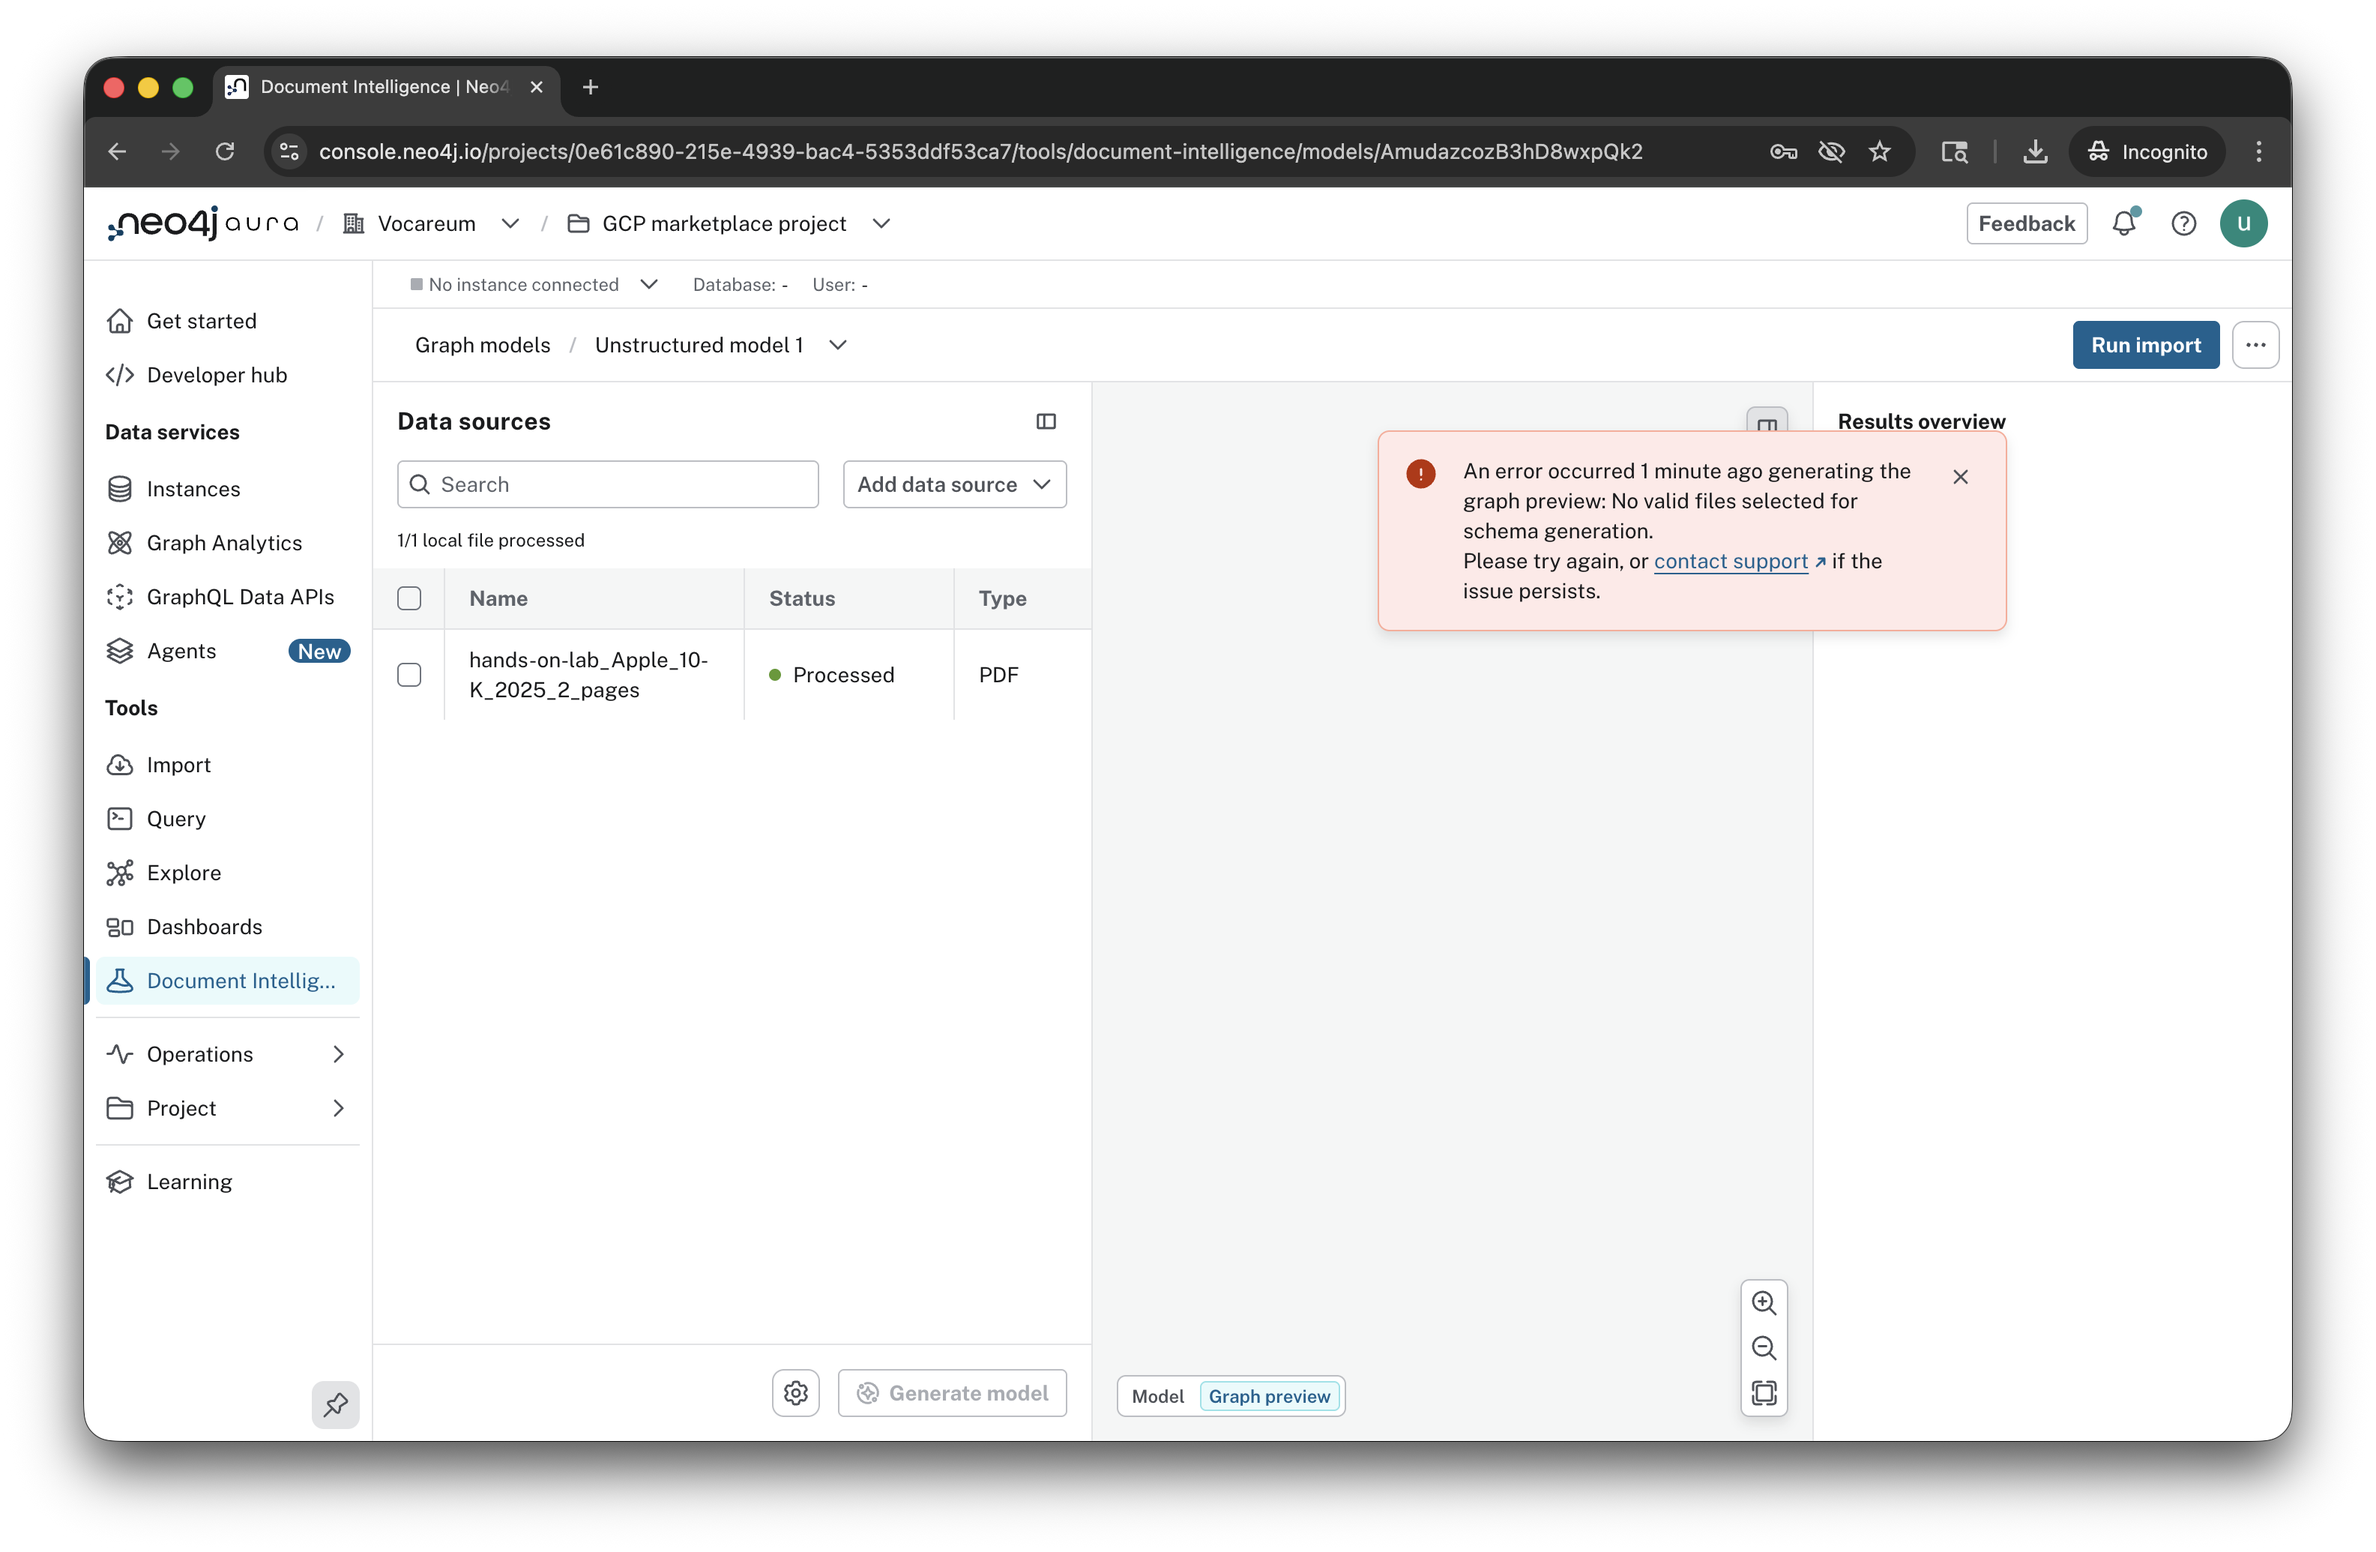
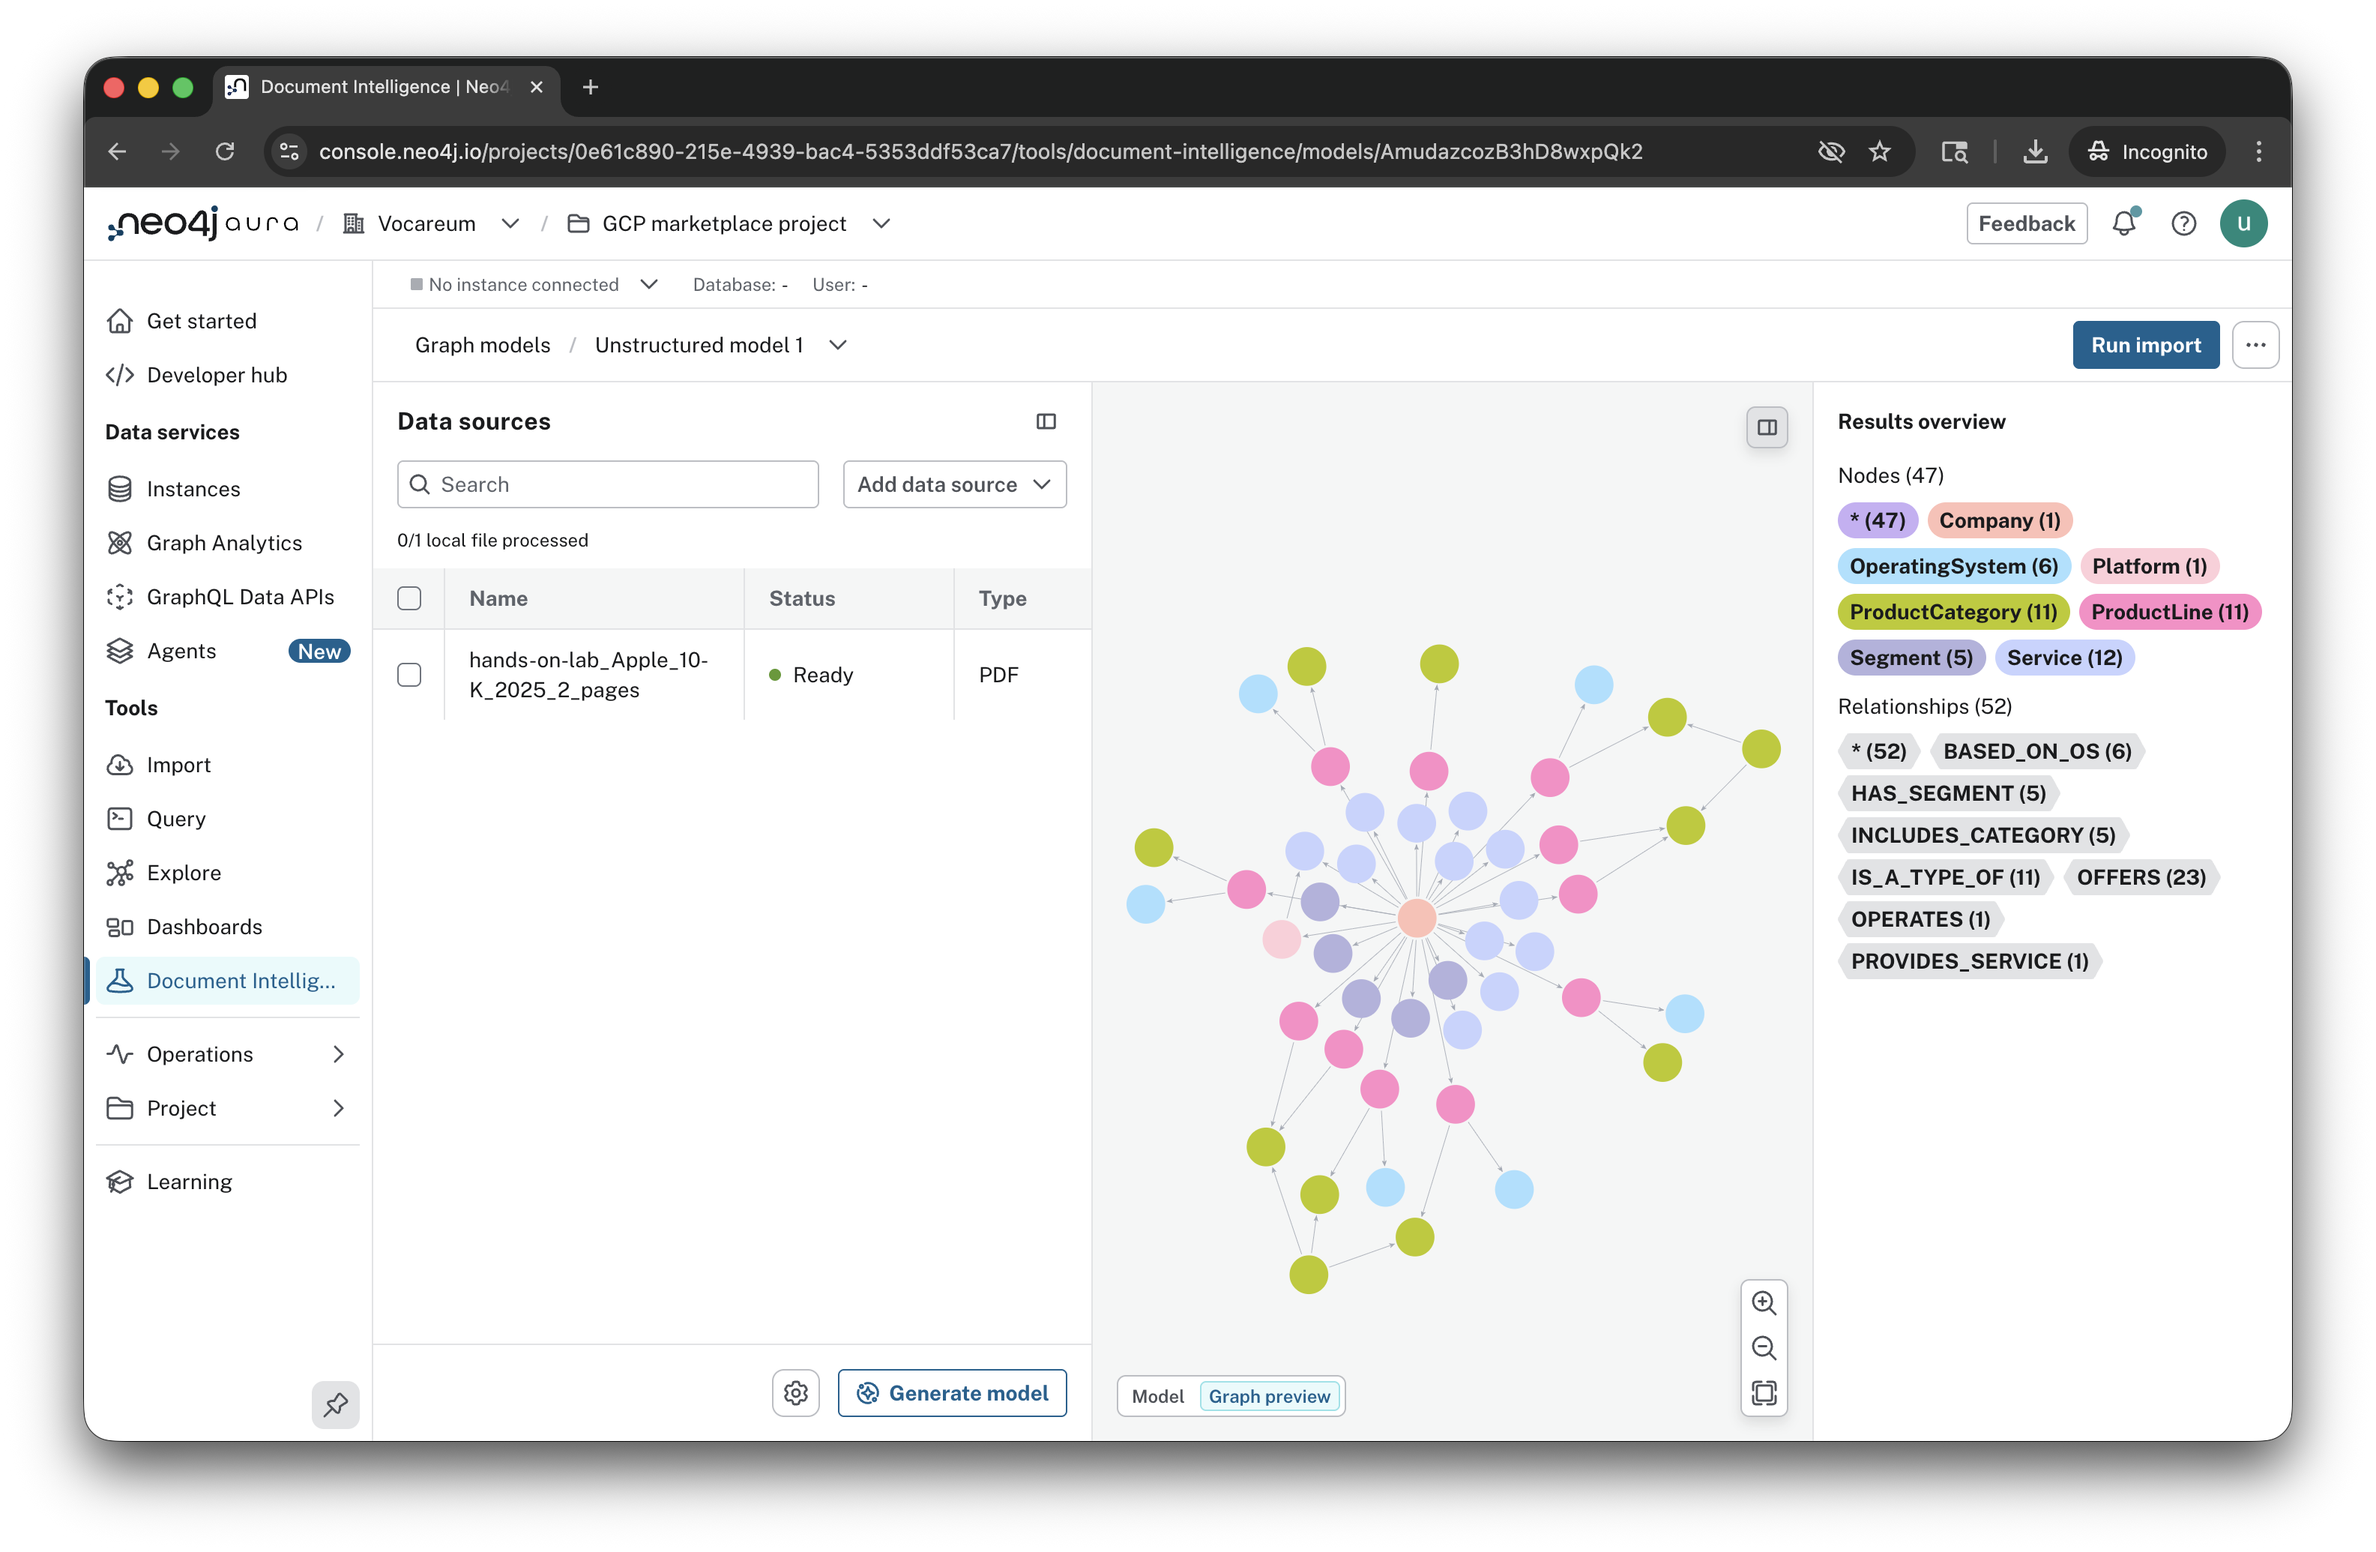
doc notes

diff --git a/Lab 6 - Document Intelligence/README.md b/Lab 6 - Document Intelligence/README.md
@@ -56,6 +56,10 @@ When you're done, click "Graph preview."
 
 ![](images/11.png)
 
-Whoops....
+We can explore the model a bit, zooming in and inspecting.  
+
+For the full view, we would need to import this into a Neo4j instance.  However, Document Intelligence in its preview state only supports Aura Free.  Aura Free is not available in GCMP, so this is the end of the road.
 
 ![](images/12.png)
+
+We really hope you enjoyed this preview of Document Intelligence.  Please stay tuned for the full release and updates!
